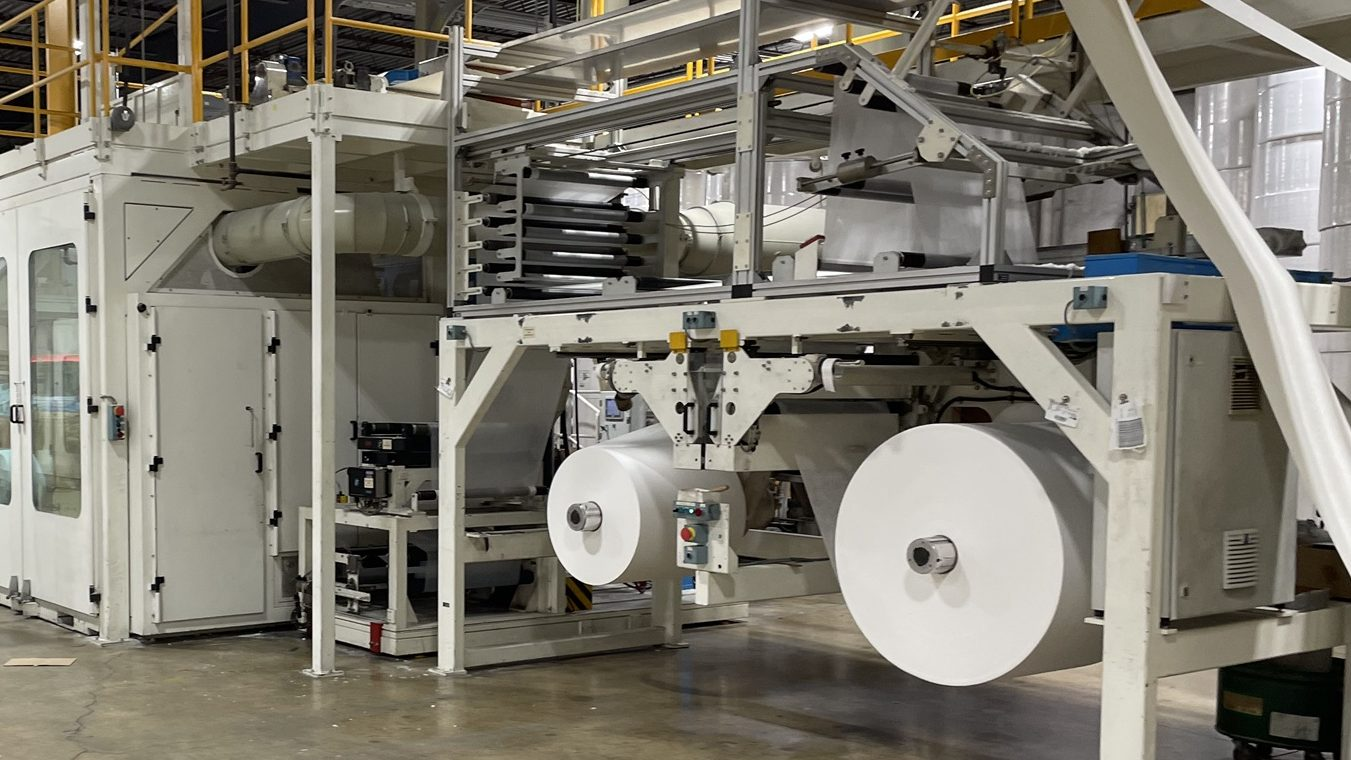
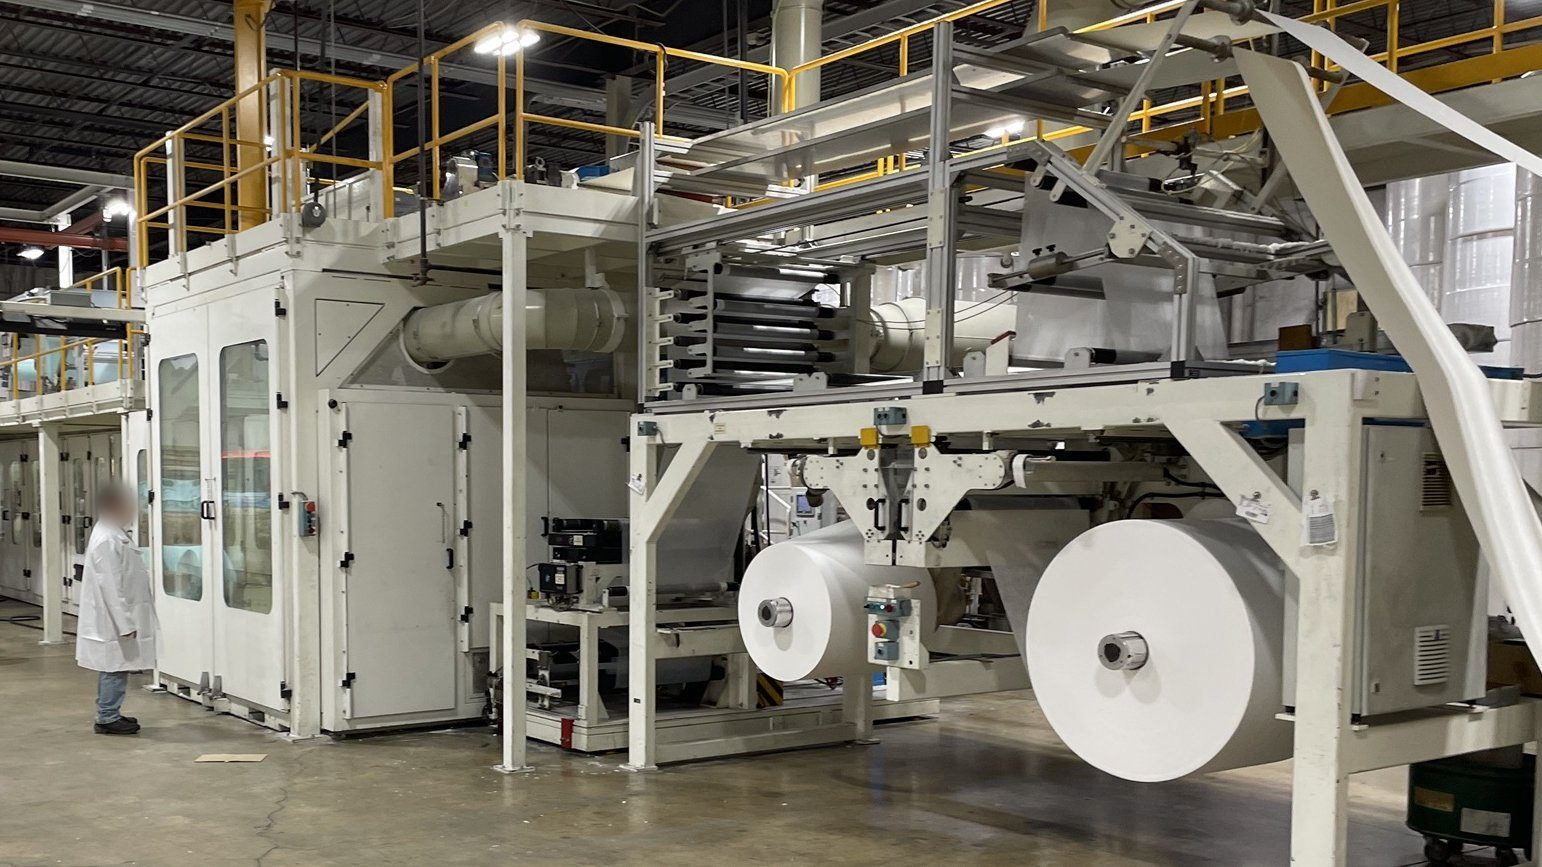
Keep the operators in the production photos, faces blurred
Claude-Session: https://claude.ai/code/session_0135q8DbuHKM5V1TZv3RQHPK

diff --git a/src/pages/manufacturing.html b/src/pages/manufacturing.html
@@ -11,7 +11,7 @@
 
 <section class="section">
   <div class="wrap">
-    <figure class="photo photo-wide"><img src="images/production-floor.jpg" alt="An underpad production line on our plant floor, with large rolls of nonwoven material feeding the machine" width="1351" height="760"></figure>
+    <figure class="photo photo-wide"><img src="images/production-floor.jpg" alt="An underpad production line on our plant floor, with large rolls of nonwoven material feeding the machine" width="1542" height="867"></figure>
   </div>
 </section>
 
